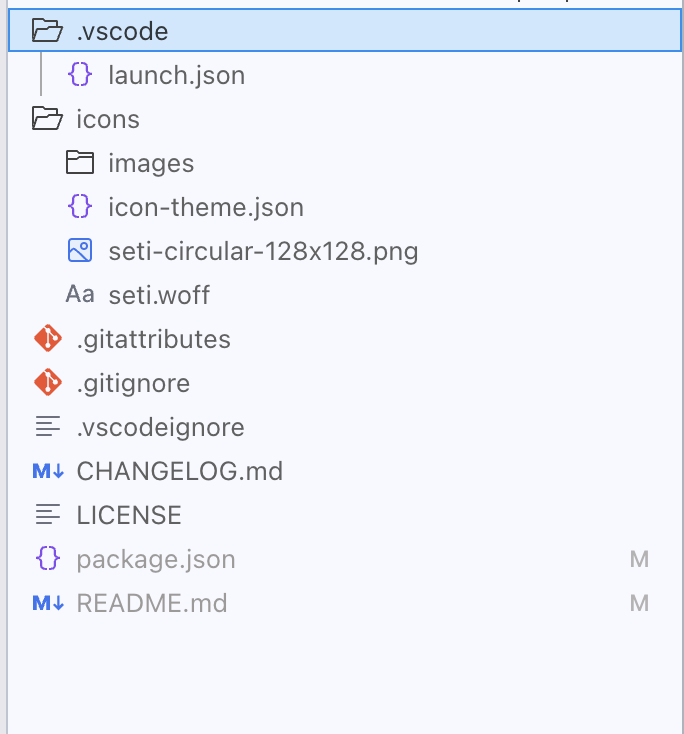
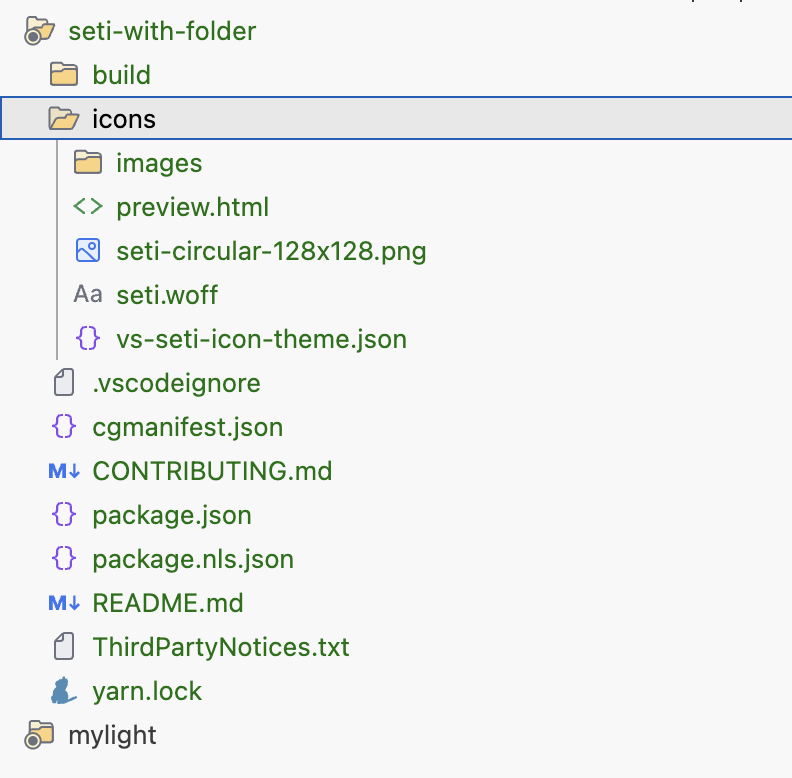
yello folders

Changed region(s): [[0.0, 0.0, 1.0, 1.0], [0.9211, 0.8093, 0.9518, 0.8392], [0.9211, 0.7493, 0.9518, 0.7793]]

diff --git a/README.md b/README.md
@@ -1,3 +1,7 @@
 # Good Icons
 
+Yellow folders finally arrived.
+
+Modified JetBrains icon theme.
+
 ![Alt text](image.png)
